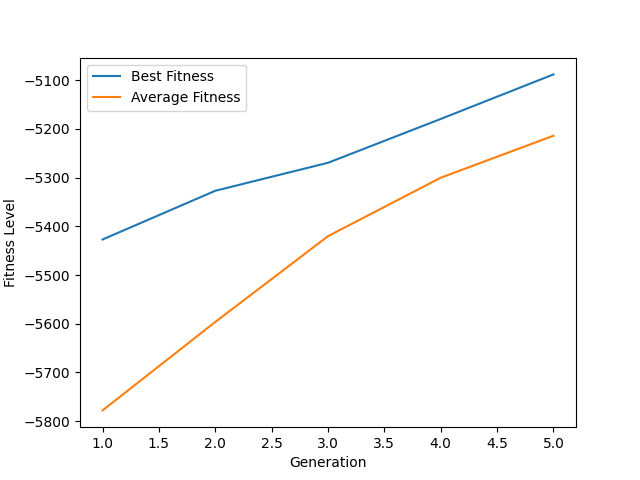
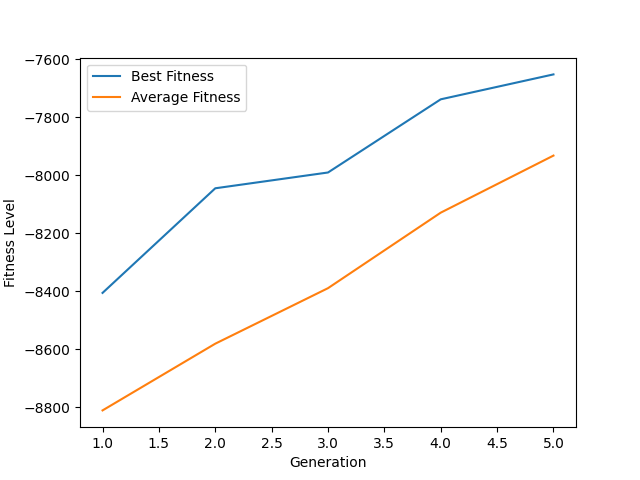
Small updates

diff --git a/Code/pathPlanningGA.py b/Code/pathPlanningGA.py
@@ -1,6 +1,7 @@
 # Description: This program uses a genetic algorithm to find the shortest path between a set of waypoints
 from multiprocessing import Pool
 from operator import ge
+import os
 from numpy import random as rand
 from matplotlib import pyplot as plt
 import random
@@ -279,10 +280,10 @@ class PathFinder:
             # Call the defuzzify method of the fuzzy logic class
             #all_solutions.append(max(self.population, key=self.fitnessFunc))
 
-            # self.prevFitness = self.normalizeFitness(min(popFit), max(popFit), self.prevFitness)
-            # self.currFitness = self.normalizeFitness(min(popFit), max(popFit), self.currFitness)
-            # self.mutationRate, self.crossoverRate = (self.fuzzyLogic.defuzzify(self.prevFitness, self.currFitness)[0], 
-            #                                          self.fuzzyLogic.defuzzify(self.prevFitness, self.currFitness)[1])
+            self.prevFitness = self.normalizeFitness(min(popFit), max(popFit), self.prevFitness)
+            self.currFitness = self.normalizeFitness(min(popFit), max(popFit), self.currFitness)
+            self.mutationRate, self.crossoverRate = (self.fuzzyLogic.defuzzify(self.prevFitness, self.currFitness)[0], 
+                                                     self.fuzzyLogic.defuzzify(self.prevFitness, self.currFitness)[1])
 
             # Determine the number of elites
             num_elites = int(self.populationSize * 0.02)  # 2% of the population
@@ -327,7 +328,7 @@ class PathFinder:
         print('Best path:', best_path , '\nDistance:', -self.fitnessFunc(best_path))
         return avg_fitnesses, best_fitnesses, all_solutions
     
-    def plot(self, avgFitnesses, bestFitnesses, prefix, gen):
+    def plot(self, avgFitnesses, bestFitnesses, prefix, gen, fileLocation):
         # Calculate the inverse of the best and average fitnesses
         #bestFitnesses = [-x for x in bestFitnesses]
         #avgFitnesses = [-x for x in avgFitnesses]
@@ -350,10 +351,17 @@ class PathFinder:
         plt.show(block=False)
 
         # Save the plot to the current directory
-        plt.savefig("/home/folio9480m/repos/Github-Pulls/HybridSystems-AgDrones/CodeResults/"+prefix + "_GenNoFuzzy"+str(gen) + '.png')
+        try:
+            if(not os.path.isdir(fileLocation)):
+                raise FileNotFoundError
+            plt.savefig(fileLocation+prefix + "_GenNoFuzzy"+str(gen) + '.png')
+        except FileNotFoundError:
+            print("File/folder not found")
+            fileLocation = input("We couldn't find the file/folder. Please enter the correct file/folder location: ")
+            plt.savefig(fileLocation+prefix + "_GenNoFuzzy"+str(gen) + '.png')
         plt.close()
 
-    def drawMap(self, waypoints, bestPath, mapWidth, mapHeight, prefix, gen, isSquare=True, vertices=None):
+    def drawMap(self, waypoints, bestPath, mapWidth, mapHeight, prefix, gen, fileLocation, isSquare=True, vertices=None):
         # Initialize Pygame
         pygame.init()
 
@@ -397,8 +405,16 @@ class PathFinder:
         pygame.display.update()
 
         #Save the map to the current directory
-        name = "/home/folio9480m/repos/Github-Pulls/HybridSystems-AgDrones/CodeResults/"+prefix + "_GenNoFuzzy"+str(gen) + '_Map.png'
-        pygame.image.save(window, name)
+        name = fileLocation+prefix + "_GenNoFuzzy"+str(gen) + '_Map.png'
+        try:
+            if(not os.path.isdir(fileLocation)):
+                raise FileNotFoundError
+            pygame.image.save(window, name)
+        except FileNotFoundError:
+            print("File/folder not found")
+            fileLocation = input("We couldn't find the file/folder. Please enter the correct file/folder location: ")
+            name = fileLocation+prefix + "_GenNoFuzzy"+str(gen) + '_Map.png'
+            pygame.image.save(window, name)
         pygame.quit()
 
         # # Wait for the user to close the window
@@ -436,6 +452,7 @@ def runGA(generations, prefix):
 
     # Generate a calculated # of random waypoints
     for _ in range(int(round(area, 0))):
+        print(_)
         if isSquare:
             # Generate a random x and y coordinate
             x = random.randint(0, area_width)*10  # X coordinate * size
@@ -456,6 +473,25 @@ def runGA(generations, prefix):
         
         if(x,y) in waypoints:
             continue
+            while((x,y) in waypoints):
+                if isSquare:
+                    # Generate a random x and y coordinate
+                    x = random.randint(0, area_width)*10  # X coordinate * size
+                    y = random.randint(0, area_height)*10  # Y coordinate * size
+                else:
+                    # Generate random barycentric coordinates
+                    a = random.random()
+                    b = random.random() * (1 - a)
+                    c = 1 - a - b
+
+                    # Calculate the x and y coordinates of the waypoint
+                    x = a * vertex1[0] + b * vertex2[0] + c * vertex3[0]
+                    y = a * vertex1[1] + b * vertex2[1] + c * vertex3[1]
+
+                # Adjust the coordinates to center the waypoints in the map
+                x += offset_x
+                y += offset_y
+
 
         
 
@@ -469,7 +505,7 @@ def runGA(generations, prefix):
         vertex1 = min(waypoints, key=lambda x: x[0])
         vertex1 = (vertex1[0]-20, vertex1[1]-15)
 
-    popSize = 30
+    popSize = 100
     crossoverRate = 0.8
     mutationRate = 0.01
     crossoverMethod = 'ordered'
@@ -485,12 +521,12 @@ def runGA(generations, prefix):
     bestFitnesses = fitnesses[1]
     allSolutions = fitnesses[2]
 
-    print("Big-O:", popSize*generations*len(waypoints))
+    fileLocation = "~/repos/Github-Pulls/HybridSystems-AgDrones/CodeResults/"
 
     # Plot the average and best fitness over generations
-    pathFinder.plot(avgFitnesses, bestFitnesses, prefix, generations)
+    pathFinder.plot(avgFitnesses, bestFitnesses, prefix, generations, fileLocation)
     # Draw the map
-    pathFinder.drawMap(waypoints, pathFinder.best_path, map_width, map_height, prefix, generations, isSquare, [vertex1, vertex2, vertex3])
+    pathFinder.drawMap(waypoints, pathFinder.best_path, map_width, map_height, prefix, generations, fileLocation, isSquare, [vertex1, vertex2, vertex3])
 
 
 for i in range(len(generations)):
